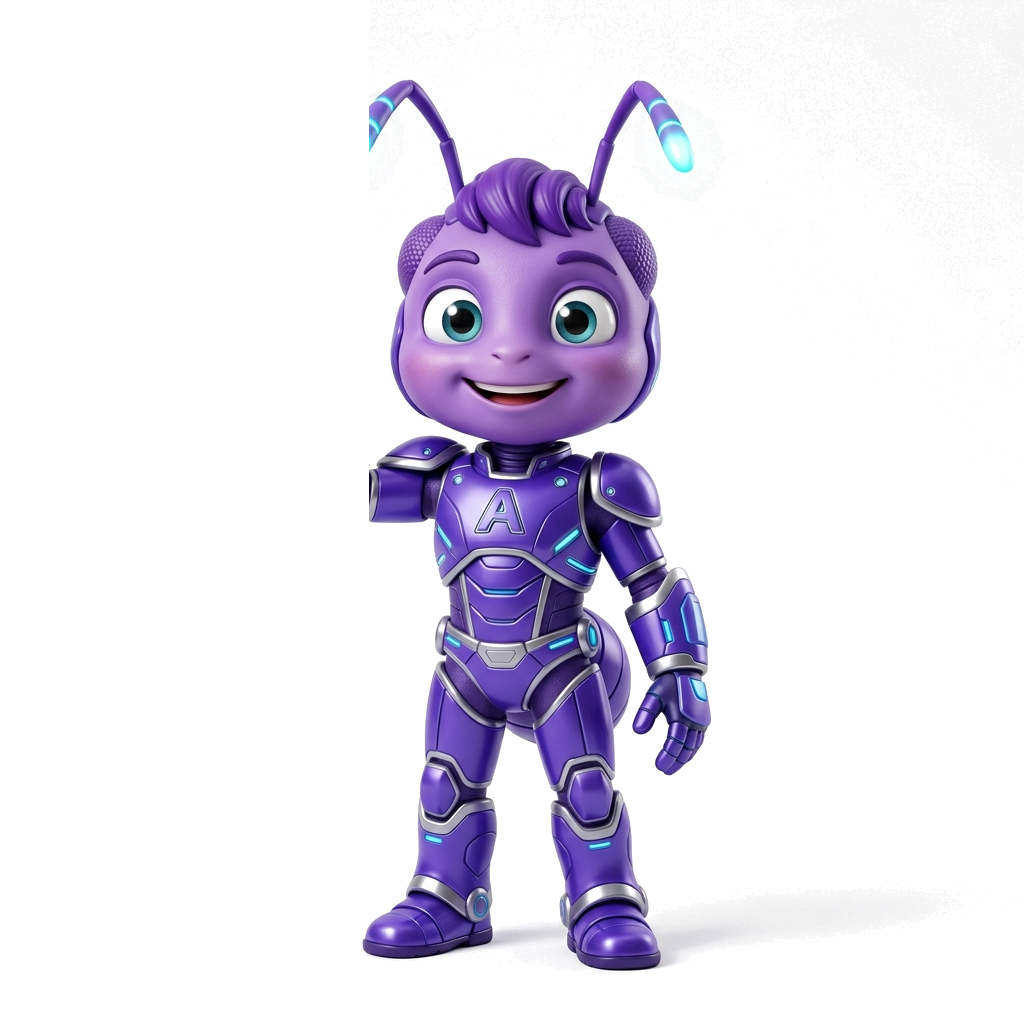
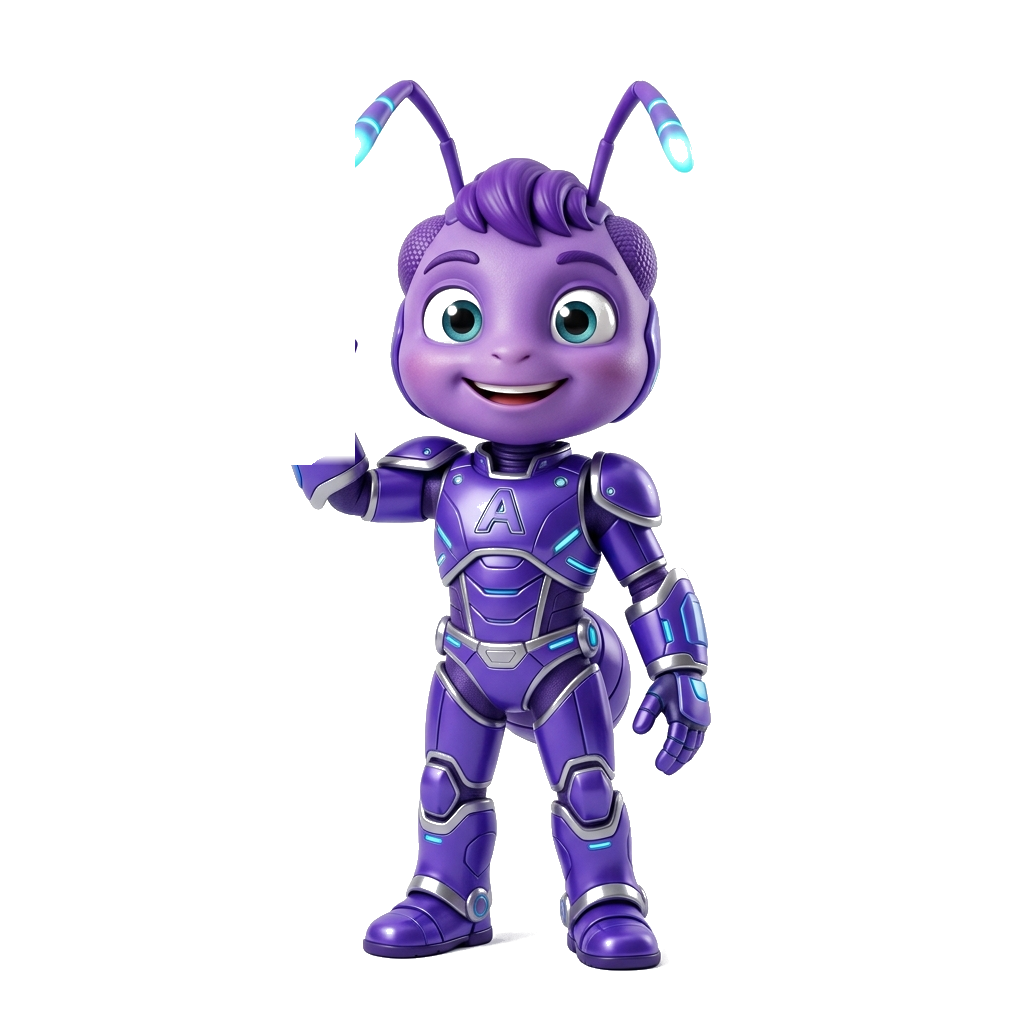
fix: isolate 3D waving arm without background artifacts, update WhatsApp hotline to 081584682345, and refine non-AI Indonesian tournament branding

diff --git a/src/app/page.tsx b/src/app/page.tsx
@@ -102,11 +102,11 @@ export default function HomePage() {
 
               {/* Punchy Main Headline with Berry Violet Accent */}
               <h1 className="text-4xl sm:text-5xl lg:text-6xl font-black tracking-tight text-slate-900 leading-[1.12]">
-                Satu Ekosistem untuk{" "}
+                Pusat Operasional{" "}
                 <span className="bg-gradient-to-r from-purple-700 via-indigo-600 to-purple-800 bg-clip-text text-transparent">
-                  Sukseskan Turnamen & Acara
+                  E-Voting, Tiketing & Produksi
                 </span>{" "}
-                Anda
+                Turnamen
               </h1>
 
               <p className="text-base sm:text-lg text-slate-600 max-w-2xl mx-auto lg:mx-0 leading-relaxed font-normal">
@@ -130,7 +130,7 @@ export default function HomePage() {
                   Bilik Cetas Vote Live
                 </Link>
                 <a
-                  href="https://wa.me/6281299887766?text=Halo%20Anty%20dan%20Tim%20Cetas%2C%20saya%20ingin%20konsultasi%20sewa%20alat%20atau%20tiket."
+                  href="https://wa.me/6281584682345?text=Halo%20Anty%20dan%20Tim%20Cetas%2C%20saya%20ingin%20konsultasi%20sewa%20alat%20atau%20tiket."
                   target="_blank"
                   rel="noopener noreferrer"
                   className="inline-flex items-center gap-2 rounded-xl bg-emerald-50 hover:bg-emerald-100/80 text-emerald-700 font-bold px-4 py-3.5 text-sm border border-emerald-200 transition shadow-xs"
@@ -198,7 +198,7 @@ export default function HomePage() {
                     {/* Speech Tag Overlay */}
                     <div className="absolute bottom-2 inset-x-3 rounded-xl bg-white/95 border border-purple-200 p-2.5 text-center shadow-md backdrop-blur-xs">
                       <p className="text-xs font-semibold text-slate-800">
-                        &ldquo;Dadah semuanya! 👋 Tanganku melambai 3D nyapa kamu! Butuh tiket, vote, atau sewa panggung?&rdquo;
+                        &ldquo;Halo sobat turnamen! 👋 Butuh tiket masuk, voting jagoan, atau konsultasi sound panggung? Tanya Anty di WhatsApp!&rdquo;
                       </p>
                     </div>
                   </div>
@@ -206,14 +206,14 @@ export default function HomePage() {
                   {/* Quick Action Buttons */}
                   <div className="space-y-2 pt-1">
                     <a
-                      href="https://wa.me/6281299887766?text=Halo%20Anty%2C%20saya%20mau%20konsultasi%20layanan%20Cetas."
+                      href="https://wa.me/6281584682345?text=Halo%20Anty%2C%20saya%20mau%20konsultasi%20layanan%20Cetas."
                       target="_blank"
                       rel="noopener noreferrer"
                       className="w-full flex items-center justify-between p-3 rounded-xl bg-[#25D366] hover:bg-[#20ba59] text-white font-bold text-xs shadow-md shadow-emerald-500/20 transition transform active:scale-95"
                     >
                       <div className="flex items-center gap-2">
                         <MessageCircle className="h-4 w-4 fill-white" />
-                        <span>Chat WhatsApp Anty (+62 812-9988-7766)</span>
+                        <span>Chat WhatsApp Anty (0815-8468-2345)</span>
                       </div>
                       <ChevronRight className="h-4 w-4" />
                     </a>
@@ -264,7 +264,7 @@ export default function HomePage() {
                 Lihat Paket Alat & Sewa
               </Link>
               <a
-                href="https://wa.me/6281299887766?text=Halo%20Tim%20Cetas%20Production%2C%20saya%20ingin%20konsultasi%20sewa%20sound%20dan%20panggung."
+                href="https://wa.me/6281584682345?text=Halo%20Tim%20Cetas%20Production%2C%20saya%20ingin%20konsultasi%20sewa%20sound%20dan%20panggung."
                 target="_blank"
                 rel="noopener noreferrer"
                 className="rounded-xl bg-purple-950/80 hover:bg-purple-900 text-white font-bold px-5 py-3.5 text-xs sm:text-sm border border-purple-400/40 transition text-center flex items-center justify-center gap-1.5"
@@ -454,13 +454,13 @@ export default function HomePage() {
 
             <div className="pt-2 flex justify-center">
               <a
-                href="https://wa.me/6281299887766?text=Halo%20Admin%20Cetas%2C%20saya%20ingin%20bertanya%20seputar%20turnamen%20dan%20layanan%20Cetas."
+                href="https://wa.me/6281584682345?text=Halo%20Admin%20Cetas%2C%20saya%20ingin%20bertanya%20seputar%20turnamen%20dan%20layanan%20Cetas."
                 target="_blank"
                 rel="noopener noreferrer"
                 className="inline-flex items-center gap-2 rounded-xl bg-[#25D366] hover:bg-[#20ba59] text-white font-bold text-sm px-6 py-3.5 shadow-md shadow-emerald-500/20 transition transform active:scale-95"
               >
                 <MessageCircle className="h-5 w-5 fill-white" />
-                Chat WhatsApp CS Official (+62 812-9988-7766)
+                Chat WhatsApp CS Official (0815-8468-2345)
               </a>
             </div>
           </div>

diff --git a/src/components/antman-mascot.tsx b/src/components/antman-mascot.tsx
@@ -1,6 +1,6 @@
 "use client";
 
-import React, { useRef, useState, useEffect } from "react";
+import React from "react";
 import Image from "next/image";
 
 interface AntmanMascotProps {
@@ -20,46 +20,16 @@ export function AntmanMascot({
   speechText,
   enable3DArm = true,
 }: AntmanMascotProps) {
-  const containerRef = useRef<HTMLDivElement>(null);
-  const [tilt, setTilt] = useState({ rotateX: 0, rotateY: 0 });
-
-  // Subtle 3D perspective tilt towards mouse cursor
-  useEffect(() => {
-    const handleMouseMove = (e: MouseEvent) => {
-      if (!containerRef.current) return;
-      const rect = containerRef.current.getBoundingClientRect();
-      const centerX = rect.left + rect.width / 2;
-      const centerY = rect.top + rect.height / 2;
-      const dx = e.clientX - centerX;
-      const dy = e.clientY - centerY;
-
-      const maxTilt = 8;
-      const tiltY = Math.max(-maxTilt, Math.min(maxTilt, (dx / window.innerWidth) * 16));
-      const tiltX = Math.max(-maxTilt, Math.min(maxTilt, -(dy / window.innerHeight) * 16));
-      setTilt({ rotateX: tiltX, rotateY: tiltY });
-    };
-
-    window.addEventListener("mousemove", handleMouseMove, { passive: true });
-    return () => window.removeEventListener("mousemove", handleMouseMove);
-  }, []);
-
   return (
     <div
-      ref={containerRef}
       className={`relative inline-flex flex-col items-center select-none ${className}`}
       style={{
         width: size,
         height: size,
       }}
     >
-      {/* 3D Perspective Container */}
-      <div
-        className="relative w-full h-full transition-transform duration-200 ease-out"
-        style={{
-          perspective: 800,
-          transform: `perspective(800px) rotateX(${tilt.rotateX}deg) rotateY(${tilt.rotateY}deg)`,
-        }}
-      >
+      {/* Mascot Viewport Container (Rock-Solid Grounded, Only Arm Waves) */}
+      <div className="relative w-full h-full">
         {pose === "thumbsup" ? (
           /* THUMBS UP POSE (DOUBLE THUMBS UP CELEBRATION) */
           <div className="relative w-full h-full flex items-center justify-center">
@@ -69,13 +39,13 @@ export function AntmanMascot({
               width={size}
               height={size}
               priority
-              className="w-full h-full object-contain drop-shadow-[0_8px_16px_rgba(124,58,237,0.25)]"
+              className="w-full h-full object-contain drop-shadow-[0_8px_16px_rgba(124,58,237,0.22)]"
             />
           </div>
         ) : (
-          /* WAVING POSE: ONLY THE HAND/ARM MOVES IN 3D! ("Tangan aja yang gerak jadi 3D") */
+          /* WAVING POSE: ONLY THE HAND/ARM MOVES IN 3D ("Tangan aja yang gerak jadi 3D") */
           <div className="relative w-full h-full">
-            {/* 1. Anchored Body Layer (Steady & Clean) */}
+            {/* 1. Anchored Body Layer (Steady, Grounded, Full Shoulder Pad) */}
             <div className="absolute inset-0 flex items-center justify-center">
               <Image
                 src="/mascot/anty_purple_body.png"
@@ -83,7 +53,7 @@ export function AntmanMascot({
                 width={size}
                 height={size}
                 priority
-                className="w-full h-full object-contain drop-shadow-[0_8px_16px_rgba(124,58,237,0.2)]"
+                className="w-full h-full object-contain drop-shadow-[0_8px_16px_rgba(124,58,237,0.18)]"
               />
             </div>
 
@@ -92,7 +62,7 @@ export function AntmanMascot({
               <div
                 className="absolute inset-0 flex items-center justify-center pointer-events-none animate-arm-wave-3d"
                 style={{
-                  transformOrigin: "34% 53%", // exact anatomical shoulder joint
+                  transformOrigin: "33.2% 48.3%", // exact anatomical shoulder joint
                   willChange: "transform",
                 }}
               >
@@ -102,7 +72,7 @@ export function AntmanMascot({
                   width={size}
                   height={size}
                   priority
-                  className="w-full h-full object-contain drop-shadow-[0_4px_10px_rgba(124,58,237,0.3)]"
+                  className="w-full h-full object-contain"
                 />
               </div>
             ) : (

diff --git a/src/components/navbar.tsx b/src/components/navbar.tsx
@@ -80,7 +80,7 @@ export function Navbar() {
         <div className="flex items-center gap-2.5">
           {/* WhatsApp Direct Help Link */}
           <a
-            href="https://wa.me/6281299887766?text=Halo%20Admin%20Cetas%2C%20saya%20butuh%20bantuan%20seputar%20web%20Cetas."
+            href="https://wa.me/6281584682345?text=Halo%20Admin%20Cetas%2C%20saya%20butuh%20bantuan%20seputar%20web%20Cetas."
             target="_blank"
             rel="noopener noreferrer"
             className="hidden sm:flex items-center gap-1.5 bg-emerald-50 hover:bg-emerald-100/80 text-emerald-700 border border-emerald-200 text-xs font-bold px-3 py-2 rounded-xl transition shadow-xs"
@@ -145,13 +145,13 @@ export function Navbar() {
               Pendaftaran Peserta Lomba / Event
             </Link>
             <a
-              href="https://wa.me/6281299887766"
+              href="https://wa.me/6281584682345"
               target="_blank"
               rel="noopener noreferrer"
               className="flex items-center justify-center gap-2 rounded-xl bg-emerald-600 hover:bg-emerald-700 text-white font-bold text-xs py-2.5 transition shadow-xs"
             >
               <MessageCircle className="h-4 w-4 fill-white" />
-              Chat WhatsApp CS Official
+              Chat WhatsApp CS (0815-8468-2345)
             </a>
           </div>
         </div>

diff --git a/src/app/layout.tsx b/src/app/layout.tsx
@@ -1,18 +1,19 @@
 import type { Metadata } from "next";
 import Script from "next/script";
-import { Geist, Geist_Mono } from "next/font/google";
+import { Plus_Jakarta_Sans, JetBrains_Mono } from "next/font/google";
 import "./globals.css";
 import { Navbar } from "@/components/navbar";
 import { Footer } from "@/components/footer";
 import { MascotWhatsAppWidget } from "@/components/mascot-whatsapp-widget";
 
-const geistSans = Geist({
-  variable: "--font-geist-sans",
+const plusJakartaSans = Plus_Jakarta_Sans({
+  variable: "--font-plus-jakarta",
   subsets: ["latin"],
+  weight: ["400", "500", "600", "700", "800"],
 });
 
-const geistMono = Geist_Mono({
-  variable: "--font-geist-mono",
+const jetbrainsMono = JetBrains_Mono({
+  variable: "--font-jetbrains-mono",
   subsets: ["latin"],
 });
 
@@ -35,7 +36,7 @@ export default function RootLayout({
   return (
     <html
       lang="id"
-      className={`${geistSans.variable} ${geistMono.variable} h-full antialiased`}
+      className={`${plusJakartaSans.variable} ${jetbrainsMono.variable} h-full antialiased`}
     >
       <head>
         <Script

diff --git a/src/app/globals.css b/src/app/globals.css
@@ -13,15 +13,16 @@
 @theme inline {
   --color-background: var(--background);
   --color-foreground: var(--foreground);
-  --font-sans: var(--font-geist-sans);
-  --font-mono: var(--font-geist-mono);
+  --font-sans: var(--font-plus-jakarta);
+  --font-mono: var(--font-jetbrains-mono);
 }
 
 body {
   background: var(--background);
   color: var(--foreground);
-  font-family: var(--font-geist-sans), system-ui, -apple-system, sans-serif;
+  font-family: var(--font-plus-jakarta), -apple-system, BlinkMacSystemFont, "Segoe UI", Roboto, sans-serif;
   overflow-x: hidden;
+  letter-spacing: -0.015em;
 }
 
 /* Berry Purple Scrollbar */
@@ -69,8 +70,8 @@ body {
 }
 
 .animate-arm-wave-3d {
-  animation: antman-arm-wave-3d 2.2s ease-in-out infinite;
-  transform-origin: 34% 53%; /* Shoulder joint pivot */
+  animation: antman-arm-wave-3d 2.4s ease-in-out infinite;
+  transform-origin: 33.2% 48.3%; /* Shoulder joint pivot */
 }
 
 .purple-glow-card {

diff --git a/src/components/mascot-whatsapp-widget.tsx b/src/components/mascot-whatsapp-widget.tsx
@@ -15,7 +15,7 @@ import {
 } from "lucide-react";
 import { AntmanMascot } from "@/components/antman-mascot";
 
-const WHATSAPP_NUMBER = "6281299887766"; // Official Cetas Support
+const WHATSAPP_NUMBER = "6281584682345"; // Official Cetas Support (081584682345)
 
 interface QuickAction {
   id: string;
@@ -344,7 +344,7 @@ export function MascotWhatsAppWidget() {
             {/* Footer / WhatsApp Submit CTA */}
             <div className="p-4 bg-slate-50 border-t border-slate-200 flex items-center justify-between gap-3">
               <div className="text-[11px] text-slate-500 hidden sm:block">
-                Nomor CS: <span className="font-mono font-bold text-slate-700">+62 812-9988-7766</span>
+                Nomor CS: <span className="font-mono font-bold text-slate-700">0815-8468-2345</span>
               </div>
 
               <button

diff --git a/src/components/footer.tsx b/src/components/footer.tsx
@@ -106,12 +106,12 @@ export function Footer() {
               <li className="flex items-center gap-2">
                 <MessageCircle className="h-4 w-4 text-emerald-600 shrink-0" />
                 <a
-                  href="https://wa.me/6281299887766"
+                  href="https://wa.me/6281584682345"
                   target="_blank"
                   rel="noopener noreferrer"
                   className="text-emerald-700 font-semibold hover:underline"
                 >
-                  WhatsApp Support: +62 812-9988-7766
+                  WhatsApp Support: 0815-8468-2345
                 </a>
               </li>
               <li className="flex items-center gap-2">

diff --git a/src/app/api/submissions/route.ts b/src/app/api/submissions/route.ts
@@ -103,7 +103,7 @@ export async function GET() {
           featuresRequested: "Cetas Ticketing, Iklan Cetas Kita",
           status: "PENDING",
           submittedAt: new Date().toISOString(),
-          user: { name: "Komunitas Nada Kita", email: "nada@event.com", phone: "081299887766" },
+          user: { name: "Komunitas Nada Kita", email: "nada@event.com", phone: "081584682345" },
         },
       ],
     });

diff --git a/src/app/admin/page.tsx b/src/app/admin/page.tsx
@@ -208,7 +208,7 @@ export default function AdminDashboardPage() {
       id: "sub-01",
       eventName: "Festival Seni & Musik Indie Jakarta 2026",
       organizer: "Komunitas Nada Kita",
-      phone: "081299887766",
+      phone: "081584682345",
       features: "Cetas Ticketing, Iklan Cetas Kita",
       status: "PENDING",
       submittedAt: "2026-10-02T10:15:00",
